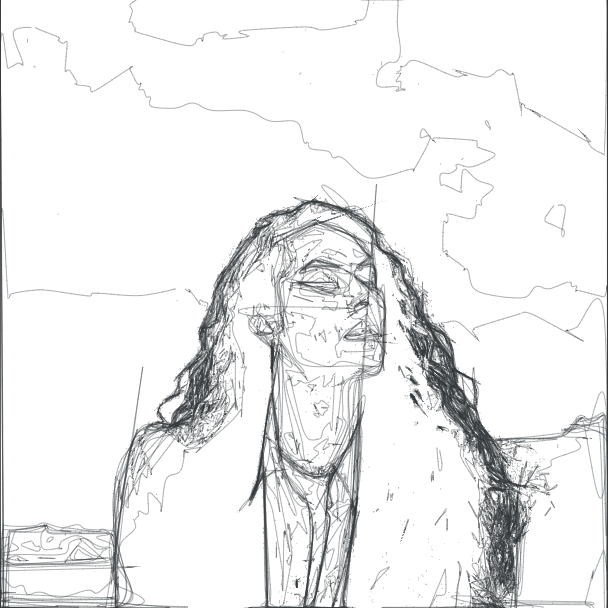
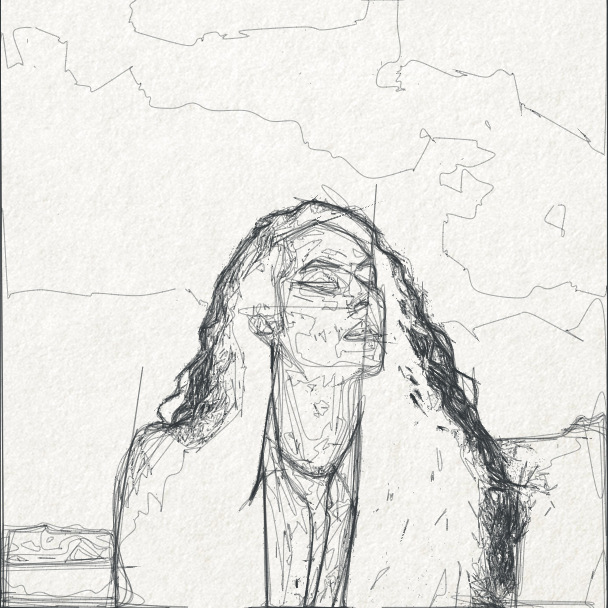
Filed file upload

diff --git a/js/script.js b/js/script.js
@@ -4,10 +4,10 @@
 // simplify/smooth (paper. js does it but slow)
 // draw catmull rom splines though said vertecies (Paper.js does it but export at specific size svg will be a problem)
 
-let threshLow = 1;
-let threshHigh = 255;
-let levels = 10;
-let tension = 2;
+let threshLow = 20;
+let threshHigh = 230;
+let levels = 20;
+let tension = -2;
 let tolerance = 10;
 let lWidth = 0.4;
 let cWidth = 1080;
@@ -43,11 +43,6 @@ function init() {
   fileInput.classList.add('uiElement');
   fileInput.type = 'file';
   fileInput.setAttribute('id', 'fileUpload');
-  const fileInputLabel = document.createElement('label');
-  fileInputLabel.classList.add('uiElementLabel');
-  fileInputLabel.setAttribute('for', 'fileUpload');
-  fileInputLabel.innerHTML = 'Stock Image:';
-  fileInput.insertAdjacentElement('beforebegin', fileInputLabel);
   const newImageButton = document.createElement('button');
   newImageButton.innerHTML = 'New Image';
   newImageButton.id = 'new-I=image-button';
@@ -65,14 +60,12 @@ function init() {
   };
   img.src = imgUrl;
 
-  fileInput.onchange = () =>
-    function () {
-      console.log(fileInput.files[0]);
-      img.src = URL.createObjectURL(fileInput.files[0]);
-      // draw.imgToCanvas();
-      console.log('File Uploaded');
-      console.time('Image Load Time');
-    };
+  fileInput.onchange = function () {
+    console.log(fileInput.files[0]);
+    img.src = URL.createObjectURL(fileInput.files[0]);
+    console.log('File Uploaded');
+    console.time('Image Load Time');
+  };
   newImageButton.onclick = () => getNewImage(document.querySelector('#i0'));
   saveButton.onclick = () => saveCanvasAsPNG(document.querySelector('#c1'));
   console.time('Image Load Time');
@@ -203,7 +196,6 @@ function saveCanvasAsPNG(canvas) {
   link.delete;
 }
 function getNewImage(img) {
-  img.src = '';
   img.src = 'https://source.unsplash.com/random/';
   console.time('Image Load Time');
 }

diff --git a/styles.css b/styles.css
@@ -10,9 +10,12 @@ body {
   flex-wrap: wrap;
 }
 #controls {
-  /* width: 100%; */
+  width: 100%;
   height: 10%;
   margin: auto;
+  display: flex;
+  flex-wrap: wrap;
+  justify-content: space-evenly;
 }
 main {
   margin: 1% auto;
